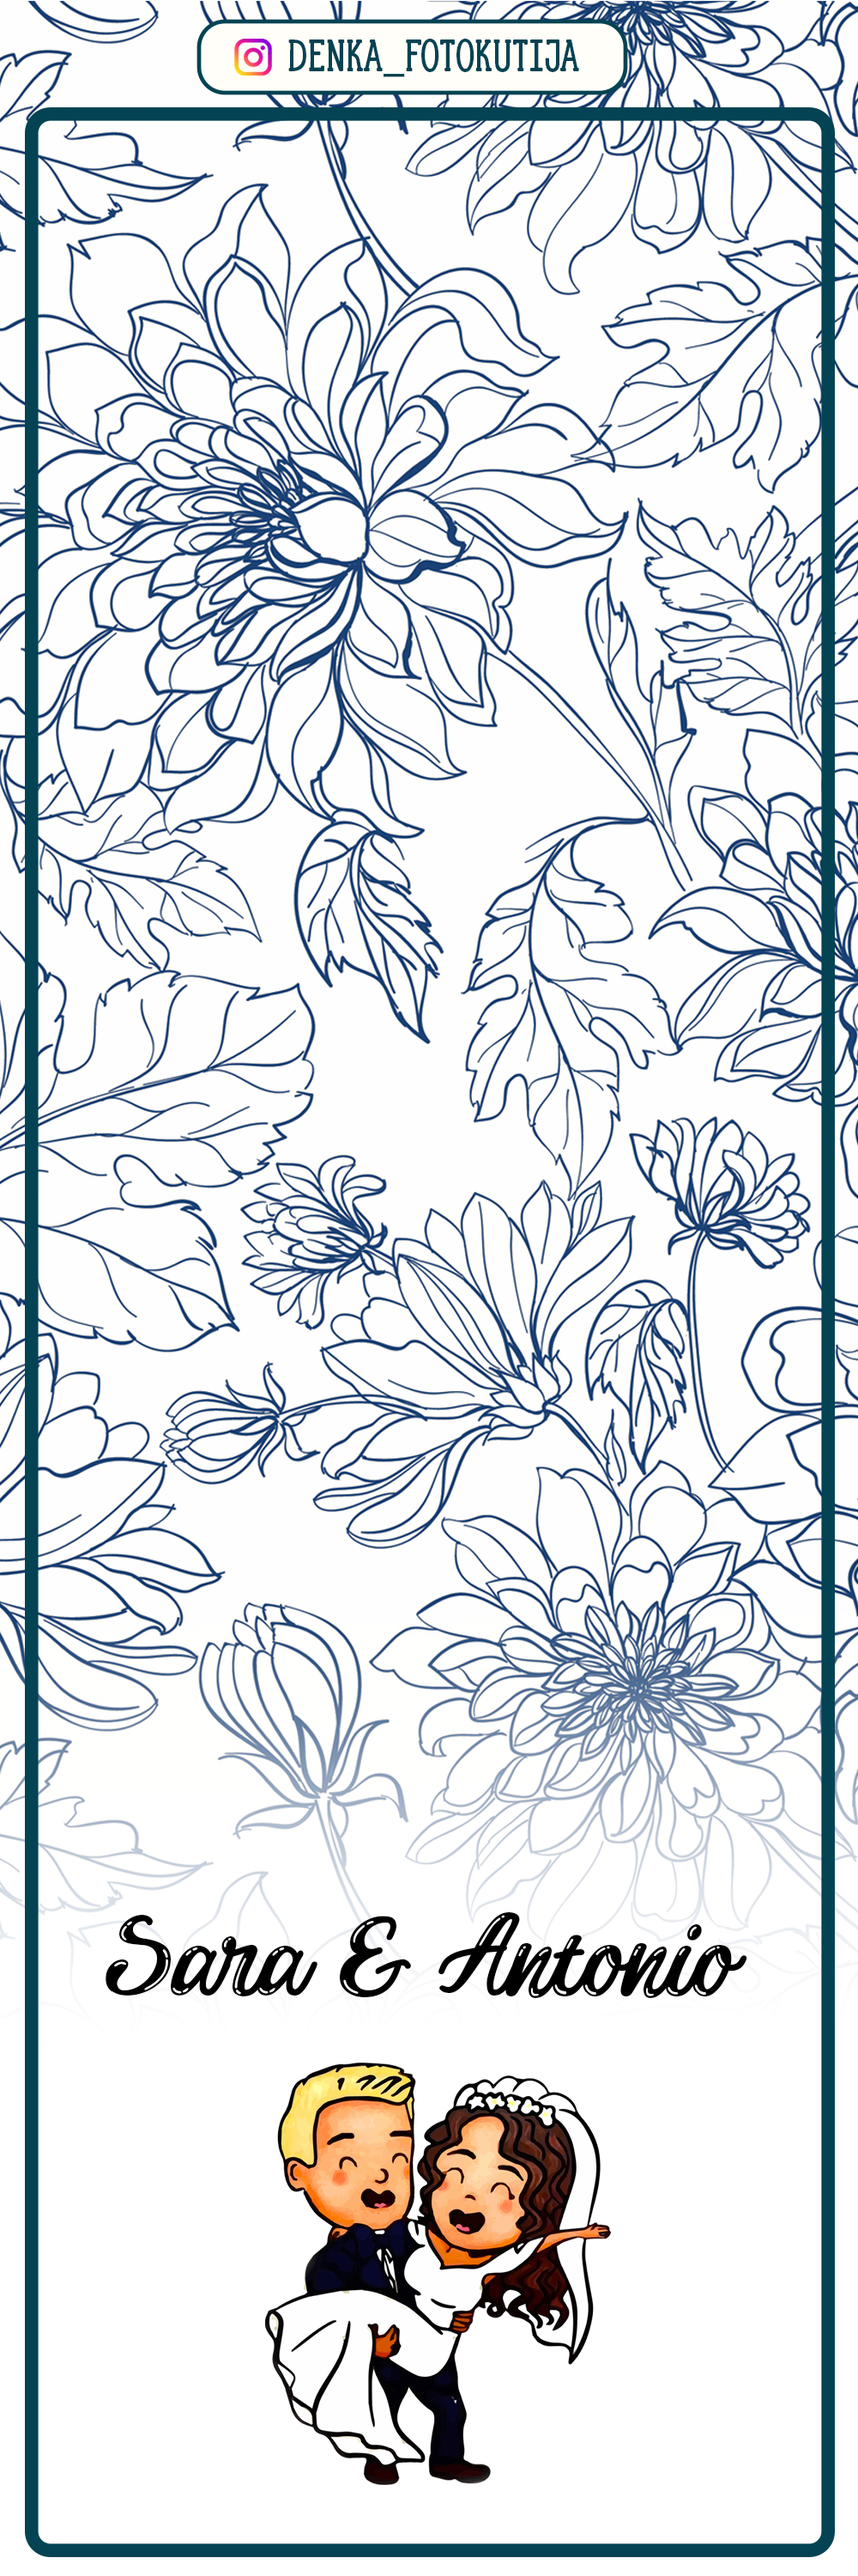
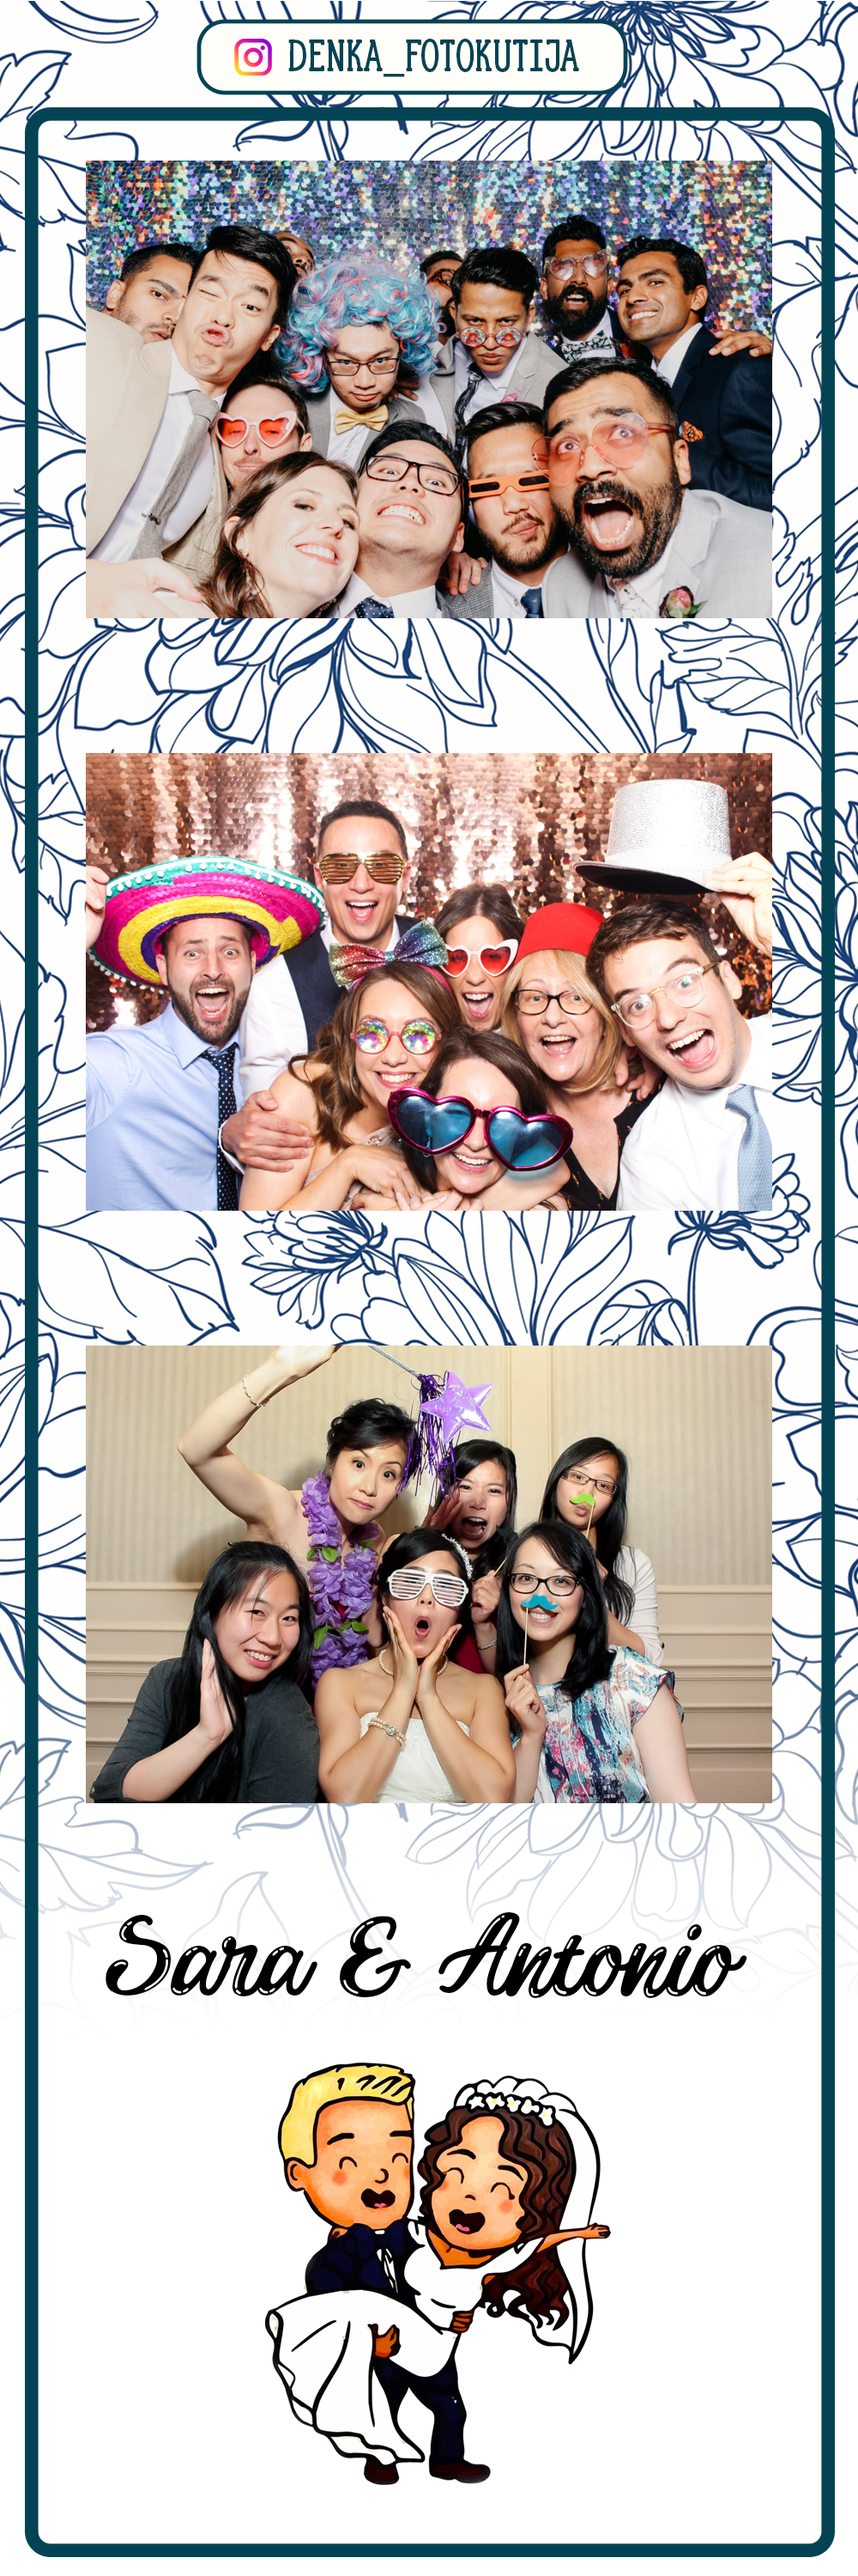
dodao napraviKarticu

diff --git a/main.py b/main.py
@@ -19,34 +19,12 @@ from PyQt5.QtCore import pyqtSignal, pyqtSlot, Qt, QThread
 from PyQt5 import uic
 
 import sys
-import time
-import datetime
 import keyboard
 
 
 import res
 
-import cloudinary
-from cloudinary.uploader import upload
-
-import cups
-from PIL import Image
-
-conn = cups.Connection ()
-printers = conn.getPrinters ()
-# printers is a dictionary containing information about all the printers available
-
-emptyDict = {}
-AvailablePrinters = list(printers.keys())
-PrinterUsing = AvailablePrinters[0]
-
-
-cloudinary.config(
-    cloud_name="dpuhwc49z",
-    api_key="544431793628367",
-    api_secret="jXcv2cki8LffeJ1Wz-FOrYU4sd8",
-    secure=True
-)
+from functions import uploadToAlbum, printaj
 
 
 class SplashUi(QMainWindow):
@@ -92,21 +70,25 @@ class PrintUi(QMainWindow):
     def __init__(self):
         super(PrintUi, self).__init__()
         uic.loadUi("res/ui/print.ui", self)
+
+        self.buttonGroup = QtWidgets.QButtonGroup(self)
+        self.buttonGroup.addButton(self.findChild(
+            QtWidgets.QRadioButton, "radio2"))
+        self.buttonGroup.addButton(self.findChild(
+            QtWidgets.QRadioButton, "radio4"))
+
         self.pushButton.clicked.connect(self.printPressed)
 
     def printPressed(self):
-        im1 = Image.open('res/session/gotovaKartica.png')
 
-        def get_concat_h(im1):
-            dst = Image.new('RGB', (im1.width + im1.width + 35, im1.height))
-            dst.paste(im1, (35, 0))
-            dst.paste(im1, (im1.width + 35, 0))
-            return dst
+        if self.buttonGroup.checkedId() == -2:
+            kolKartica = 2
+        elif self.buttonGroup.checkedId() == -3:
+            kolKartica = 4
+        else:
+            print("No radio button is selected")
 
-        get_concat_h(im1).save('res/session/dupla_kartica.png')
-
-
-        conn.printFile(PrinterUsing, "res/session/dupla_kartica.png", "title", emptyDict)
+        printaj(kolKartica)
 
         widget.setCurrentWidget(AlbumUi)
 
@@ -131,17 +113,15 @@ class AlbumUi(QMainWindow):
     def sharePressed(self):
 
         if self.buttonGroup.checkedId() == -2:
-            upload("res/session/slika1.jpg",
-                   public_id="djenka/saraiantonio2904/album/" + str(time.time()))
+            brojSlike = 1
         elif self.buttonGroup.checkedId() == -3:
-            upload("res/session/slika2.jpg",
-                   public_id="djenka/saraiantonio2904/album/" + str(time.time()))
+            brojSlike = 2
         elif self.buttonGroup.checkedId() == -4:
-            upload("res/session/slika3.jpg",
-                   public_id="djenka/saraiantonio2904/album/" + str(time.time()))
+            brojSlike = 3
         else:
             print("No radio button is selected")
-            print(self.buttonGroup.checkedId())
+
+        uploadToAlbum(brojSlike)
 
         widget.setCurrentWidget(SplashUi)
 

diff --git a/functions.py b/functions.py
@@ -1,0 +1,59 @@
+import cloudinary
+from cloudinary.uploader import upload
+import time
+import cups
+from PIL import Image
+
+cloudinary.config(
+    cloud_name="dpuhwc49z",
+    api_key="544431793628367",
+    api_secret="jXcv2cki8LffeJ1Wz-FOrYU4sd8",
+    secure=True
+)
+
+
+conn = cups.Connection()
+printers = conn.getPrinters()
+# printers is a dictionary containing information about all the printers available
+
+emptyDict = {}
+AvailablePrinters = list(printers.keys())
+PrinterUsing = AvailablePrinters[0]
+
+
+def uploadToAlbum(brojSlike):
+    upload("res/session/slika" + str(brojSlike) + ".jpg",
+           public_id="djenka/saraiantonio2904/album/" + str(time.time()))
+
+
+def printaj(kolKartica):
+    im1 = Image.open('res/session/gotovaKartica.png')
+
+    def get_concat_h(im1):
+        dst = Image.new('RGB', (im1.width + im1.width + 35, im1.height))
+        dst.paste(im1, (35, 0))
+        dst.paste(im1, (im1.width + 35, 0))
+        return dst
+
+    get_concat_h(im1).save('res/session/dupla_kartica.png')
+
+    conn.printFile(
+        PrinterUsing, "res/session/dupla_kartica.png", "title", emptyDict)
+
+    if kolKartica == 4:
+        conn.printFile(
+            PrinterUsing, "res/session/dupla_kartica.png", "title", emptyDict)
+
+
+def napraviKarticu():
+
+    kartica = Image.open('res/event/kartica.png')
+    im1 = Image.open('res/session/slika1.jpg').resize((800, 533))
+    im2 = Image.open('res/session/slika2.jpg').resize((800, 533))
+    im3 = Image.open('res/session/slika3.jpg').resize((800, 533))
+
+    kartica.paste(im1, (100, 187))
+    kartica.paste(im2, (100, 877))
+    kartica.paste(im3, (100, 1567))
+
+    kartica.save('res/session/gotovaKartica.png')
